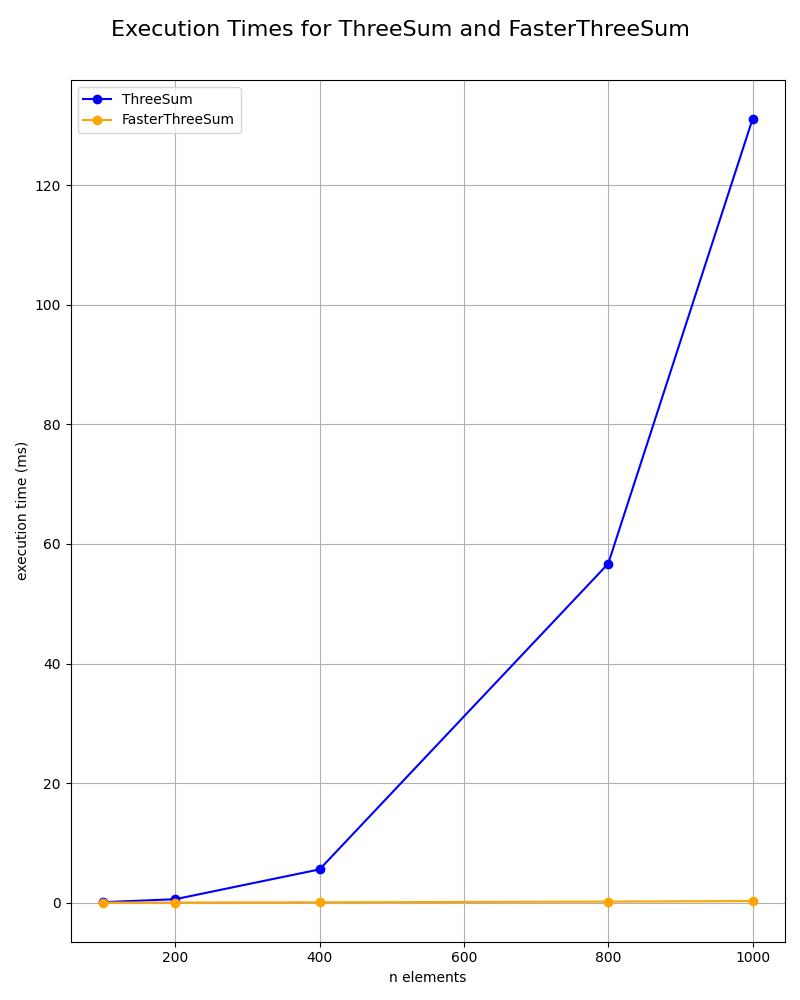
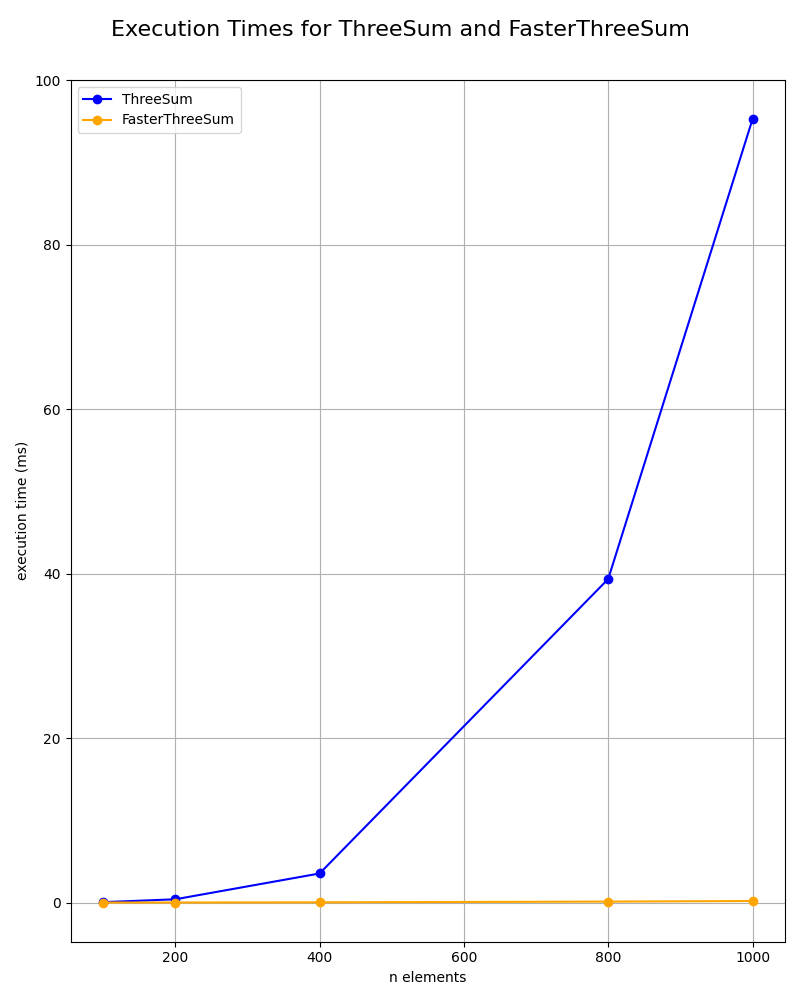
WIP

diff --git a/src/utils/ThreeSum.py b/src/utils/ThreeSum.py
@@ -6,6 +6,9 @@ class ThreeSum:
         for j in range(i + 1, len(nums)):
           for k in range(j + 1, len(nums)):
             if nums[i] + nums[j] + nums[k] == 0:
+              if i == j or j == k or i == k:
+                continue
+              
               tripplets = tuple(sorted([nums[i], nums[j], nums[k]]))
               if tripplets not in res:
                 res.append(tripplets)

diff --git a/README.md b/README.md
@@ -40,7 +40,14 @@ Kollar vi på Union (den första grafen) kan vi se att `quickfind` presterar sä
 
 Kollar vi sedan på Connected (den andra grafen) kan vi se att de båda algoritmerna presterar ungefär lika bra. Det skiljer bara några millisekunder, vilket inte är någon betydande tid i det stora hela.
 
-För QuickFind växer tiden linjärt med antalet element. Till exempel tar en union-operation cirka 0,55 sekunder vid 100 000 element, medan samma operation vid 1 000 000 element tar ungefär tio gånger längre tid, cirka 5,8 sekunder. UnionFind däremot ligger kvar på ungefär samma tidsnivå oavsett storlek, vilket visar att dess prestanda i praktiken är nästan konstant.
+För QuickFind växer tiden linjärt med antalet element. Detta kan vi enkelt visa genom att jämföra tider för olika storlekar:
+
+- Vid 100 000 element tar union-operationen cirka 0,55 sekunder
+- Vid 1 000 000 element (10 gånger fler) tar det cirka 5,8 sekunder (ungefär 10 gånger längre tid)
+
+En linjär algoritm (O(n)) förväntas ta ungefär 10 gånger längre tid när indata blir 10 gånger större, vilket stämmer med våra mätvärden (5,8 / 0,55 ≈ 10). Detta bekräftar att QuickFind växer linjärt.
+
+UnionFind däremot ligger kvar på ungefär samma tidsnivå oavsett storlek, vilket visar att dess prestanda i praktiken är nästan konstant. Teoretiskt har den O(log n) komplexitet, men eftersom log n växer mycket långsamt när n ökar, ser vi i praktiken en nästan konstant prestanda för de datamängder vi testat.
 
 ### Task 6
 
@@ -50,6 +57,20 @@ FasterThreeSum (O(n² log n)) presterar bättre än ThreeSum. Detta beror på at
 
 När vi testar ThreeSum (O(n³)) ser vi att algoritmen inte växer linjärt, som exempelvis QuickFinds union, utan i praktiken följer en kubisk tillväxt. Vid 200 element tar beräkningen cirka 0,4 sekunder, vid 400 element cirka 3,6 sekunder, och vid 800 element hela 43 sekunder. När vi når 1000 element ökar tiden till närmare 100 sekunder.
 
+Vi kan enkelt se den kubiska tillväxten (O(n³)) genom att jämföra tiderna:
+
+- Vid 400 element tar beräkningen cirka 3,6 sekunder
+- Vid 800 element (dubbelt så många) tar det hela 43 sekunder
+
+Om vi fördubblar storlek för en kubisk algoritm, förväntar vi oss att tiden ökar med 2³ = 8 gånger. Vår ökning är 43 / 3,6 ≈ 12 gånger, vilket är i närheten av det förväntade och bekräftar att algoritmen växer ungefär kubiskt.
+
 För den andra varianten, FasterThreeSum (O(n² log n)), är resultatet betydligt bättre. Vid 1000 element tar körningen endast omkring 0,2 sekunder – en mycket stor skillnad jämfört med de nästan 100 sekunder som den kubiska algoritmen kräver. Även denna algoritm växer snabbare än linjärt, men betydligt långsammare än ThreeSum.
+
+Vi kan bekräfta att FasterThreeSum har lägre komplexitet (O(n² log n)) genom att jämföra med ThreeSum:
+
+- ThreeSum med 1000 element: cirka 100 sekunder
+- FasterThreeSum med 1000 element: endast 0,2 sekunder
+
+En förbättring med 500 gånger! Detta visar tydligt att FasterThreeSum har en mycket lägre komplexitet än den kubiska algoritmen, vilket stämmer med den teoretiska O(n² log n) tidskomplexiteten.
 
 ![Graf över prestanda](graphs/3sum_graph.png)
